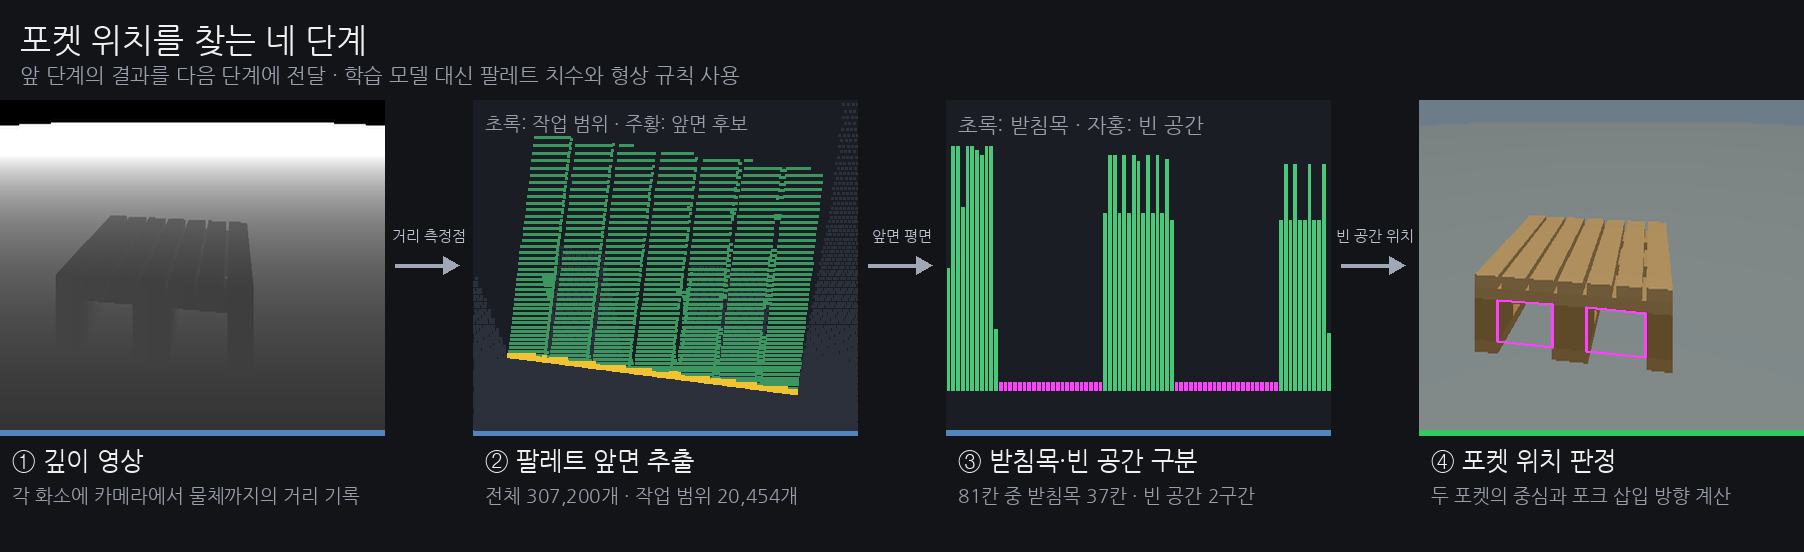
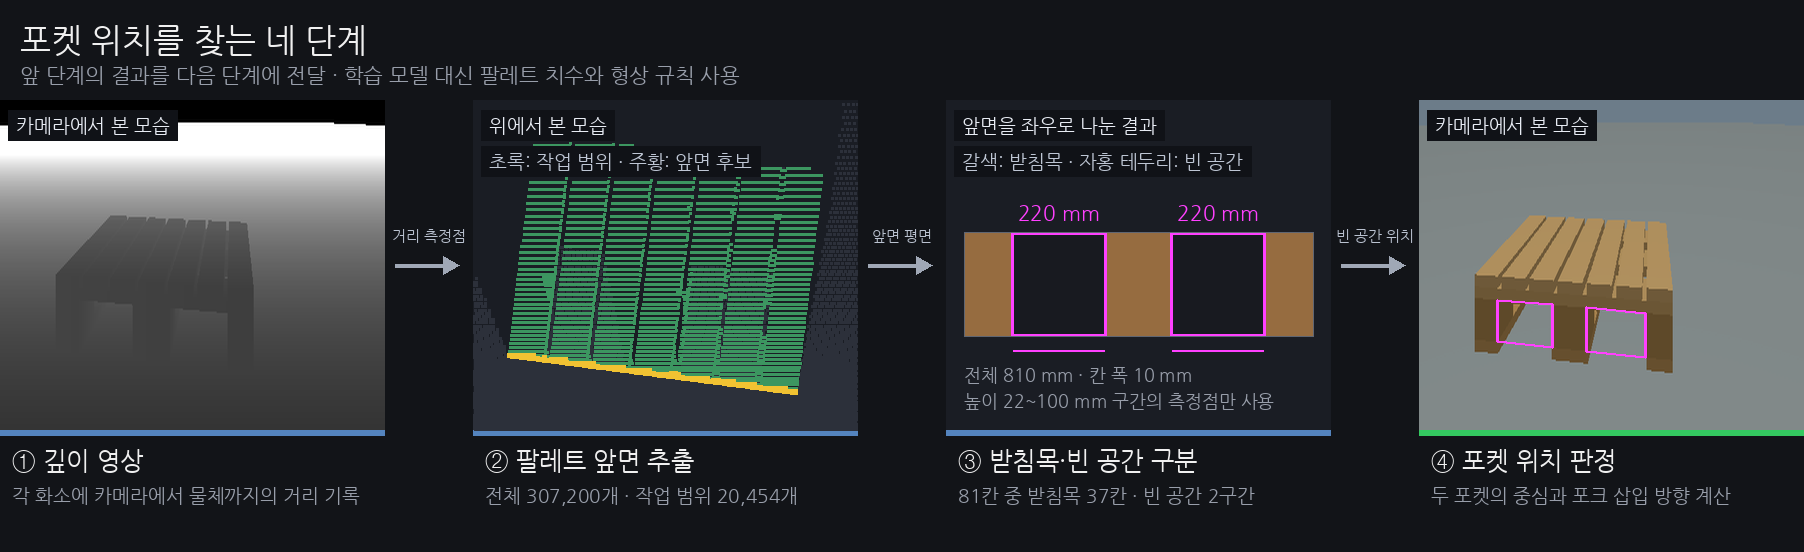
fix: stage three shows the two holes, not a meaningless bar height
The third panel's bar heights were point counts, which the detector never
looks at; it only asks whether a column is empty. The panel now shows the
front face as a strip with the two 220 mm holes outlined, and the narration
gives their width against the 207.5-247.5 mm the spec allows.

Each panel also names the viewpoint it is drawn from, since the figure
switches between the camera view, a plan view and a strip without saying so.

Claude-Session: https://claude.ai/code/session_01EDwbqCR7d7ymZ6Gm99cASC

diff --git a/week-03/index.html b/week-03/index.html
@@ -49,7 +49,7 @@ EPAL 6 캡처와 평가: docs/validation/2026-09-14-epal6-capture-and-evaluation
 
 <section data-label="포켓 인식 처리 과정" data-screen-label="04" data-duration="49" data-speaker-notes="권장 49초
 
-포켓 검출에는 학습 모델 대신 팔레트의 치수와 형상 규칙을 사용하였다. 그림은 Gazebo에서 만든 한 장면을 처리한 실제 중간 결과이다. 깊이 영상은 각 화소에 물체까지의 거리를 기록한다. 이 장면의 측정점 약 30만 7천 개 중 작업 범위에 속한 2만 454개를 남기고, 그 안에서 팔레트 앞면에 해당하는 수직 평면을 추렸다. 다음으로 앞면을 세로 칸으로 나누어 팔레트를 받치는 받침목 후보 37칸과 빈 공간 2구간을 구분하였다. 마지막으로 빈 공간의 폭과 윗판·아랫판의 관측 여부를 확인하여 두 포켓의 중심과 포크 삽입 방향을 계산하였다. 포켓 주변 구조가 화면 밖으로 나가면 이 방법만으로 검출하기 어렵다.
+포켓 검출에는 학습 모델 대신 팔레트의 치수와 형상 규칙을 사용하였다. 그림은 Gazebo에서 만든 한 장면을 처리한 실제 중간 결과이다. 깊이 영상은 각 화소에 물체까지의 거리를 기록한다. 이 장면의 측정점 약 30만 7천 개 중 작업 범위에 속한 2만 454개를 남기고, 그 안에서 팔레트 앞면에 해당하는 수직 평면을 추렸다. 다음으로 앞면을 세로 칸으로 나누어 팔레트를 받치는 받침목 후보 37칸과 빈 공간 2구간을 구분하였다. 빈 공간의 폭은 두 곳 모두 220밀리미터로, 규격이 허용하는 207.5~247.5밀리미터 안에 들었다. 마지막으로 빈 공간의 폭과 윗판·아랫판의 관측 여부를 확인하여 두 포켓의 중심과 포크 삽입 방향을 계산하였다. 포켓 주변 구조가 화면 밖으로 나가면 이 방법만으로 검출하기 어렵다.
 
 [Sources]
 검출기 설계와 단계 정의: docs/validation/2026-09-13-pocket-detector-m2.md

diff --git a/week-03/build_deck.py b/week-03/build_deck.py
@@ -70,7 +70,7 @@ add('포켓 인식 처리 과정', '03  포켓 인식 처리 과정', 49, f"""
 {figure('20_pipeline_stages.png', '깊이 영상, 팔레트 앞면, 받침목과 빈 공간, 판정된 포켓 위치의 네 단계', '')}
 <div class="takeaway">검출 조건: 받침목·빈 공간·윗판·아랫판이 영상에 보여야 함</div>
 """,
-    """포켓 검출에는 학습 모델 대신 팔레트의 치수와 형상 규칙을 사용하였다. 그림은 Gazebo에서 만든 한 장면을 처리한 실제 중간 결과이다. 깊이 영상은 각 화소에 물체까지의 거리를 기록한다. 이 장면의 측정점 약 30만 7천 개 중 작업 범위에 속한 2만 454개를 남기고, 그 안에서 팔레트 앞면에 해당하는 수직 평면을 추렸다. 다음으로 앞면을 세로 칸으로 나누어 팔레트를 받치는 받침목 후보 37칸과 빈 공간 2구간을 구분하였다. 마지막으로 빈 공간의 폭과 윗판·아랫판의 관측 여부를 확인하여 두 포켓의 중심과 포크 삽입 방향을 계산하였다. 포켓 주변 구조가 화면 밖으로 나가면 이 방법만으로 검출하기 어렵다.""",
+    """포켓 검출에는 학습 모델 대신 팔레트의 치수와 형상 규칙을 사용하였다. 그림은 Gazebo에서 만든 한 장면을 처리한 실제 중간 결과이다. 깊이 영상은 각 화소에 물체까지의 거리를 기록한다. 이 장면의 측정점 약 30만 7천 개 중 작업 범위에 속한 2만 454개를 남기고, 그 안에서 팔레트 앞면에 해당하는 수직 평면을 추렸다. 다음으로 앞면을 세로 칸으로 나누어 팔레트를 받치는 받침목 후보 37칸과 빈 공간 2구간을 구분하였다. 빈 공간의 폭은 두 곳 모두 220밀리미터로, 규격이 허용하는 207.5~247.5밀리미터 안에 들었다. 마지막으로 빈 공간의 폭과 윗판·아랫판의 관측 여부를 확인하여 두 포켓의 중심과 포크 삽입 방향을 계산하였다. 포켓 주변 구조가 화면 밖으로 나가면 이 방법만으로 검출하기 어렵다.""",
     [(M2, '검출기 설계와 단계 정의'), (EV, '측정 리그와 단계별 증거')], '대상 장면: 촬영 세트 s003')
 
 # ----------------------------------------------------------------- 5

diff --git a/week-03/SCRIPT.md b/week-03/SCRIPT.md
@@ -33,7 +33,7 @@ EPAL 6 캡처와 평가: docs/validation/2026-09-14-epal6-capture-and-evaluation
 
 ## 4쪽 · 포켓 인식 처리 과정 (02:13–03:02, 49초)
 
-포켓 검출에는 학습 모델 대신 팔레트의 치수와 형상 규칙을 사용하였다. 그림은 Gazebo에서 만든 한 장면을 처리한 실제 중간 결과이다. 깊이 영상은 각 화소에 물체까지의 거리를 기록한다. 이 장면의 측정점 약 30만 7천 개 중 작업 범위에 속한 2만 454개를 남기고, 그 안에서 팔레트 앞면에 해당하는 수직 평면을 추렸다. 다음으로 앞면을 세로 칸으로 나누어 팔레트를 받치는 받침목 후보 37칸과 빈 공간 2구간을 구분하였다. 마지막으로 빈 공간의 폭과 윗판·아랫판의 관측 여부를 확인하여 두 포켓의 중심과 포크 삽입 방향을 계산하였다. 포켓 주변 구조가 화면 밖으로 나가면 이 방법만으로 검출하기 어렵다.
+포켓 검출에는 학습 모델 대신 팔레트의 치수와 형상 규칙을 사용하였다. 그림은 Gazebo에서 만든 한 장면을 처리한 실제 중간 결과이다. 깊이 영상은 각 화소에 물체까지의 거리를 기록한다. 이 장면의 측정점 약 30만 7천 개 중 작업 범위에 속한 2만 454개를 남기고, 그 안에서 팔레트 앞면에 해당하는 수직 평면을 추렸다. 다음으로 앞면을 세로 칸으로 나누어 팔레트를 받치는 받침목 후보 37칸과 빈 공간 2구간을 구분하였다. 빈 공간의 폭은 두 곳 모두 220밀리미터로, 규격이 허용하는 207.5~247.5밀리미터 안에 들었다. 마지막으로 빈 공간의 폭과 윗판·아랫판의 관측 여부를 확인하여 두 포켓의 중심과 포크 삽입 방향을 계산하였다. 포켓 주변 구조가 화면 밖으로 나가면 이 방법만으로 검출하기 어렵다.
 
 [Sources]
 검출기 설계와 단계 정의: docs/validation/2026-09-13-pocket-detector-m2.md
